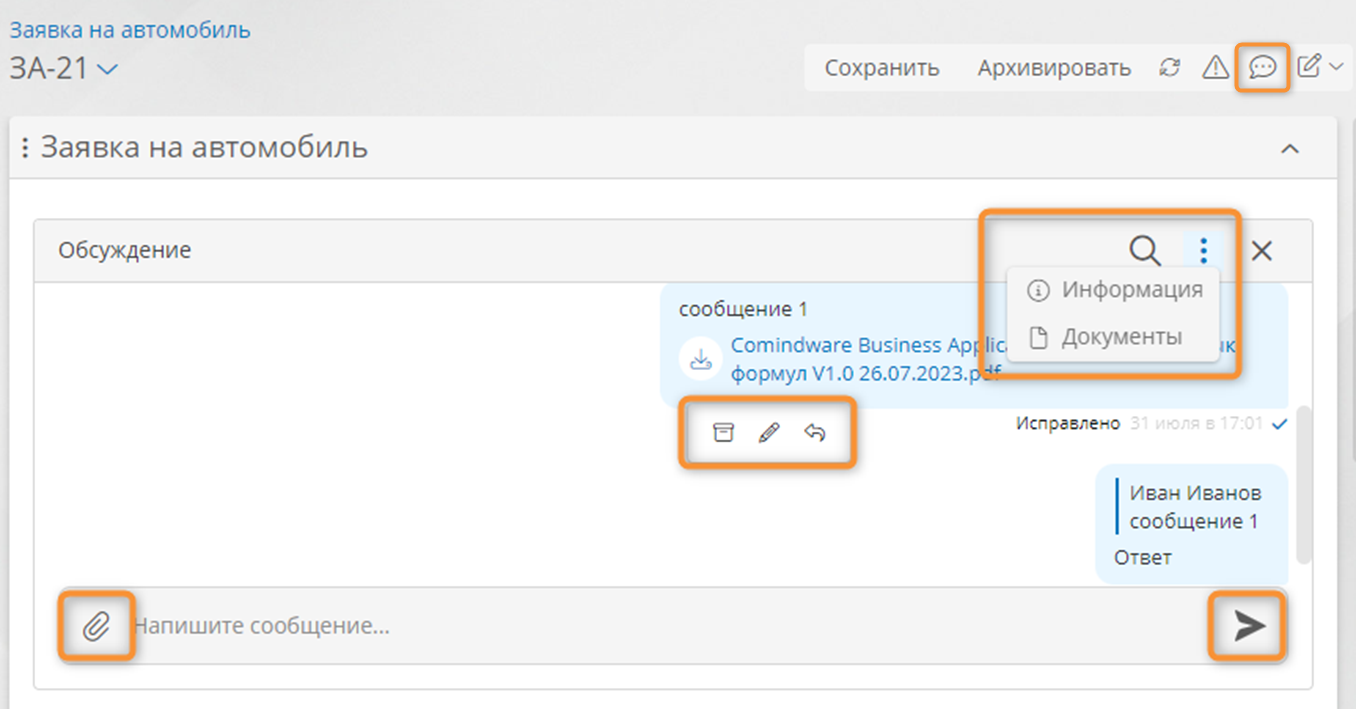
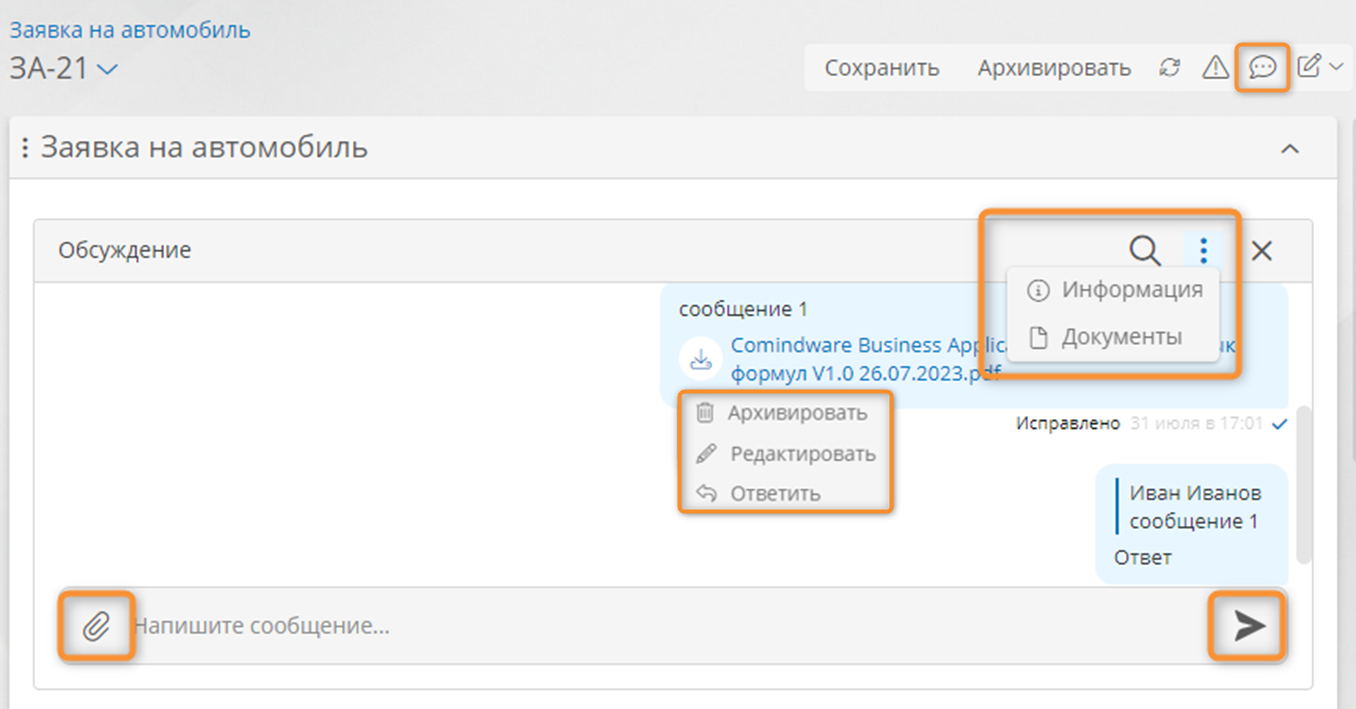
[#1923959] Edited discussion articles and image.

Changed region(s): [[0.4956, 0.5275, 0.6814, 0.7447]]

diff --git a/docs/ru/using_the_system/discussion_use.md b/docs/ru/using_the_system/discussion_use.md
@@ -18,10 +18,22 @@ hide:
 1. Откройте форму, на которой имеется обсуждение.
 2. Если на форме нет обсуждений, откройте обсуждение рядом с формой, нажав кнопку «**Обсуждение**» <i class="fa-light  fa-comment-dots"></i>.
 3. Введите сообщение и нажмите кнопку «**Отправить**» <i class="fa-solid fa-paper-plane-top"></i> или клавишу ++enter++.
-4. Чтобы прикрепить к сообщению файл, нажмите кнопку «**Вложения**» <i class="fa-light fa-paperclip"></i>.
-5. Чтобы изменить, архивировать или ответить на сообщение, нажмите его правой кнопкой мыши. В отобразившемся меню нажмите кнопку «**Архивировать**» <i class="fa-light  fa-box-archive"></i>, «**Редактировать**» <i class="fa-light  fa-pencil" ></i> или «**Ответить**» <i class="fa-light  fa-reply"></i>.
-6. Чтобы найти сообщения, нажмите кнопку «**Поиск**» <i class="fa-light fa-search"></i>, введите искомые слова и нажмите клавишу ++enter++.
-7. Чтобы просмотреть список участников обсуждения и прикреплённых файлов нажмите кнопку «**Инфопанель**» **<i class="fa-light  fa-ellipsis-v"></i>** и выберите пункт «**Информация**» или «**Документы**».
+4. Чтобы добавить к сообщению эмодзи, нажмите кнопку <i class="fa-light fa-face-smile"></i>.
+5. Чтобы прикрепить к сообщению файл, нажмите кнопку «**Вложения**» <i class="fa-light fa-paperclip"></i>.
+6. Отобразится значок загрузки вложения <i class="fa-light fa-loader"></i>.
+7. Чтобы просмотреть изображение, нажмите его превью в обсуждении.
+8. Чтобы изменить, архивировать или ответить на сообщение, нажмите его правой кнопкой мыши. В отобразившемся меню нажмите кнопку «**Архивировать**» <i class="fa-light fa-trash-can"></i>, «**Редактировать**» <i class="fa-light  fa-pencil" ></i> или «**Ответить**» <i class="fa-light  fa-reply"></i>.
+9. Чтобы найти сообщения, нажмите кнопку «**Поиск**» <i class="fa-light fa-search"></i>, введите искомые слова и нажмите клавишу ++enter++.
+10. Чтобы просмотреть список участников обсуждения и прикреплённых файлов нажмите кнопку «**Инфопанель**» **<i class="fa-light  fa-ellipsis-v"></i>** и выберите пункт «**Информация**» или «**Документы**».
+11. Чтобы открыть список всех обсуждений, в которых участвует выбранный аккаунт, нажмите «**Обсуждения**» в панели навигации.
+
+    !!! note "Примечание"
+
+        Чтобы «Обсуждения» отображались в панели навигации, их следует добавить в настройке разделов, см. _«[Настройка разделов навигации][navigation_sections_setup]»_.
+
+12. Рядом с именем обсуждения, а также на кнопке «**Обсуждение**» <i class="fa-light  fa-comment-dots"></i> записи отобразится счётчик непрочитанных сообщений.
+13. Откройте обсуждение с непрочитанными сообщениями.
+14. Отобразится обсуждение, начиная от первого непрочитанного сообщения.
 
     _![Кнопки в обсуждении](discussion_buttons.png)_
 
@@ -29,20 +41,22 @@ hide:
 
     - На форме может отображаться одно или несколько обсуждений, относящихся к разным записям (не обязательно к текущей записи).
     - Обсуждение на панели справа от формы всегда относится к текущей записи или задаче.
+    - Чтобы подписаться на уведомления об обновлениях в обсуждении, отправьте в нём сообщение.
+    - Сообщения можно отправить без подключения к интернету. Они получат статус «**Отправляется**» и будут доставлены другим участникам обсуждения при подключении к интернету.
 
 ## Быстрые ответы
 
-Чтобы настроить быстрые ответы, см. _«[Настройка быстрых ответов][discussion_configure_quick_answers]»_.
+Чтобы добавить и настроить быстрые ответы в обсуждениях, см. _«[Настройка быстрых ответов][discussion_configure_quick_answers]»_.
 
-1. Откройте форму, на которой имеются обсуждения.
-2. Нажмите значок <i class="fa-light fa-table-cells-large"></i>.
+1. Откройте обсуждение.
+2. Нажмите кнопку «**Быстрые ответы**» <i class="fa-light fa-table-cells-large"></i>.
 3. Отобразится список настроенных групп быстрых ответов и самих ответов.
 4. Выберите группу быстрых ответов.
 5. Наведите мышь на необходимый быстрый ответ.
-6. Справа от быстрого ответа отобразятся значки быстрых действий.
+6. Справа от быстрого ответа отобразятся кнопки действий.
 7. Чтобы скопировать текст быстрого ответа в буфер обмена, нажмите <i class="fa-light fa-copy"></i>.
-8. Чтобы без редактирования отправить быстрый ответ, нажмите <i class="fa-light fa-paper-plane"></i>.
-9. Чтобы отредактировать быстрый ответ, нажмите его.
+8. Чтобы без редактирования отправить быстрый ответ, нажмите <i class="fa-solid fa-paper-plane"></i>.
+9. Чтобы поместить в поле ввода сообщения быстрый ответ, нажмите его.
 
 ## Форматирование текста
 
@@ -101,6 +115,7 @@ hide:
 --8<-- "related_topics_heading.md"
 
 - _[Настройка обсуждений][discussion_configure]_
+- _[Настройка разделов навигации][navigation_sections_setup]_
 
 </div>
 

diff --git a/docs/ru/business_apps/templates/forms/discussion_configure.md b/docs/ru/business_apps/templates/forms/discussion_configure.md
@@ -63,7 +63,7 @@ hide:
 
 !!! warning "Логика работы быстрых ответов"
 
-    - Для обсуждений можно создать готовые (быстрые) ответы и использовать их.
+    - Для обсуждений можно создать быстрые (готовые) ответы и использовать их.
     - Чтобы добавить к обсуждениям быстрые ответы, требуется создать специальный шаблон с определёнными атрибутами и заполнить их данными.
     - Быстрые ответы можно объединить в разные группы. Количество и название групп может быть любым.
     - В каждом приложении можно создать свой отдельный набор быстрых ответов, соответствующий назначению приложения.
@@ -76,7 +76,7 @@ hide:
 3. Создайте атрибут _«Группа»_ типа «**Список значений**» с системным именем `_quickAnswersGroupAttribute`.
 4. На вкладке «**Список значений**» создайте несколько групп для быстрых ответов.
 5. Добавьте на основную форму атрибуты _«Сообщения»_ и _«Группа»_.
-6. Перейдите списку экземпляров шаблона.
+6. Перейдите к списку экземпляров шаблона.
 7. Создайте и заполните запись для каждого быстрого ответа.
 
 <div class="relatedTopics" markdown="block">
